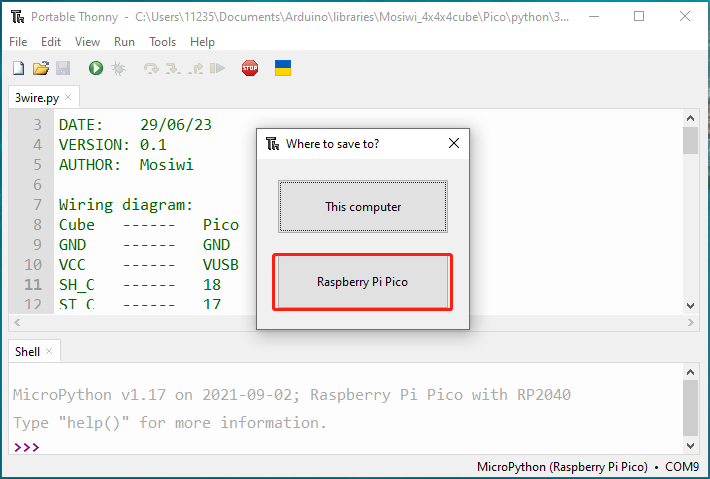
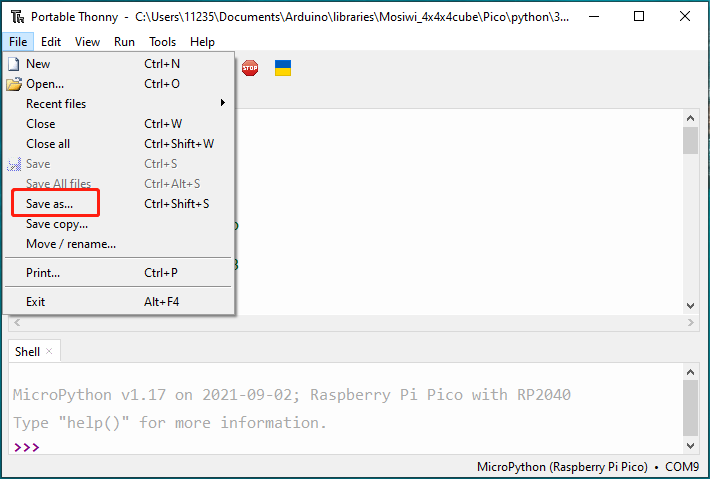
init

Changed region(s): [[0.0, 0.0, 0.8056, 0.7015], [0.0, 0.0, 1.0, 1.0]]

diff --git a/docs/source/pico_tutorial/pico_tutorial.md b/docs/source/pico_tutorial/pico_tutorial.md
@@ -21,30 +21,33 @@ If you don't have Pico and Thonny basics, you can follow the link to learn the b
 Unzip the "Mosiwi-4x4x4cube.zip" file you [downloaded above](../previous_tutorial/previous_tutorial.md#download-library-file):            
 ![Img](../_static/pico/img/1img.png)                
 
-[Connect Thonny to Pico](https://docs.mosiwi.com/en/latest/raspberry/R1D0001_raspberry_pico/R1D0001_raspberry_pico.html#using-micropython-in-thonny), and open the example code in Thonny as follows:             
-![Img](../_static/pico/img/2img.png)   
+Make sure your Raspberry PI Pico's USB is plugged into your computer's USB via a usb cable, then click on **"Python"** and the version number in the bottom right corner of the Thonny window, then select "**MicroPython(Raspberry PI Pico)". COMx** ".     
+![Img](../_static/pico/img/2img.png)    
+
+Open the example code in Thonny as follows:             
+![Img](../_static/pico/img/3img.png)   
 
 ```{note}
 Only when the Pico is connected to Thonny will a window pop up allowing you to select "This computer" and "Raspberry Pi Pico"!    
 ```     
 
-![Img](../_static/pico/img/3img.png)  
+![Img](../_static/pico/img/4img.png)  
 
 ```{tip}
 There are two communication methods in the example code, they are basically the same effect, but the "spi" communication method is faster, choose one of them!       
 ```
 
 Run the code online. (The code is not saved in pico and is not executed after repowering.)    
-![Img](../_static/pico/img/4img.png)
+![Img](../_static/pico/img/5img.png)
 
 Run the code offline. (The code is stored in pico, and the code in pico is automatically executed after being powered on.)   
 | 1 |  
 |:---:|   
-| ![Img](../_static/pico/img/5img.png) |   
+| ![Img](../_static/pico/img/6img.png) |   
 | 2 |  
-| ![Img](../_static/pico/img/6img.png) |      
+| ![Img](../_static/pico/img/7img.png) |      
 | 3 |    
-| ![Img](../_static/pico/img/7img.png) |    
+| ![Img](../_static/pico/img/8img.png) |    
 
 ```{tip}
 Online operation requires that the Pico board is always connected to the PC, offline operation does not need to be, according to the actual situation to choose the operation mode you need.
